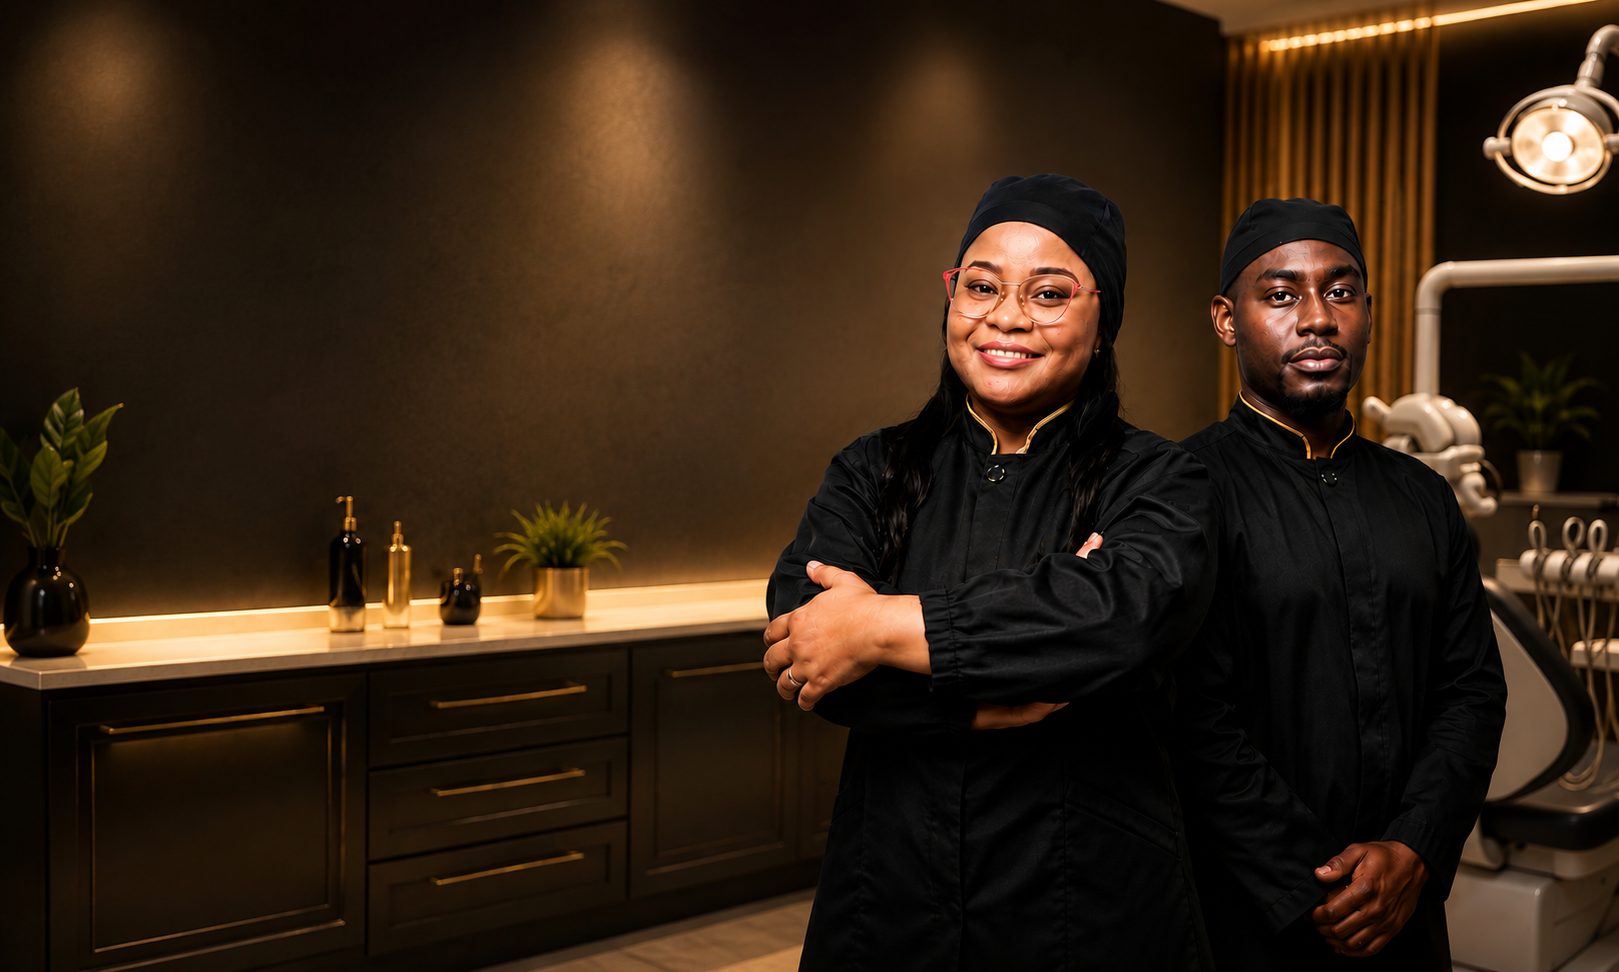
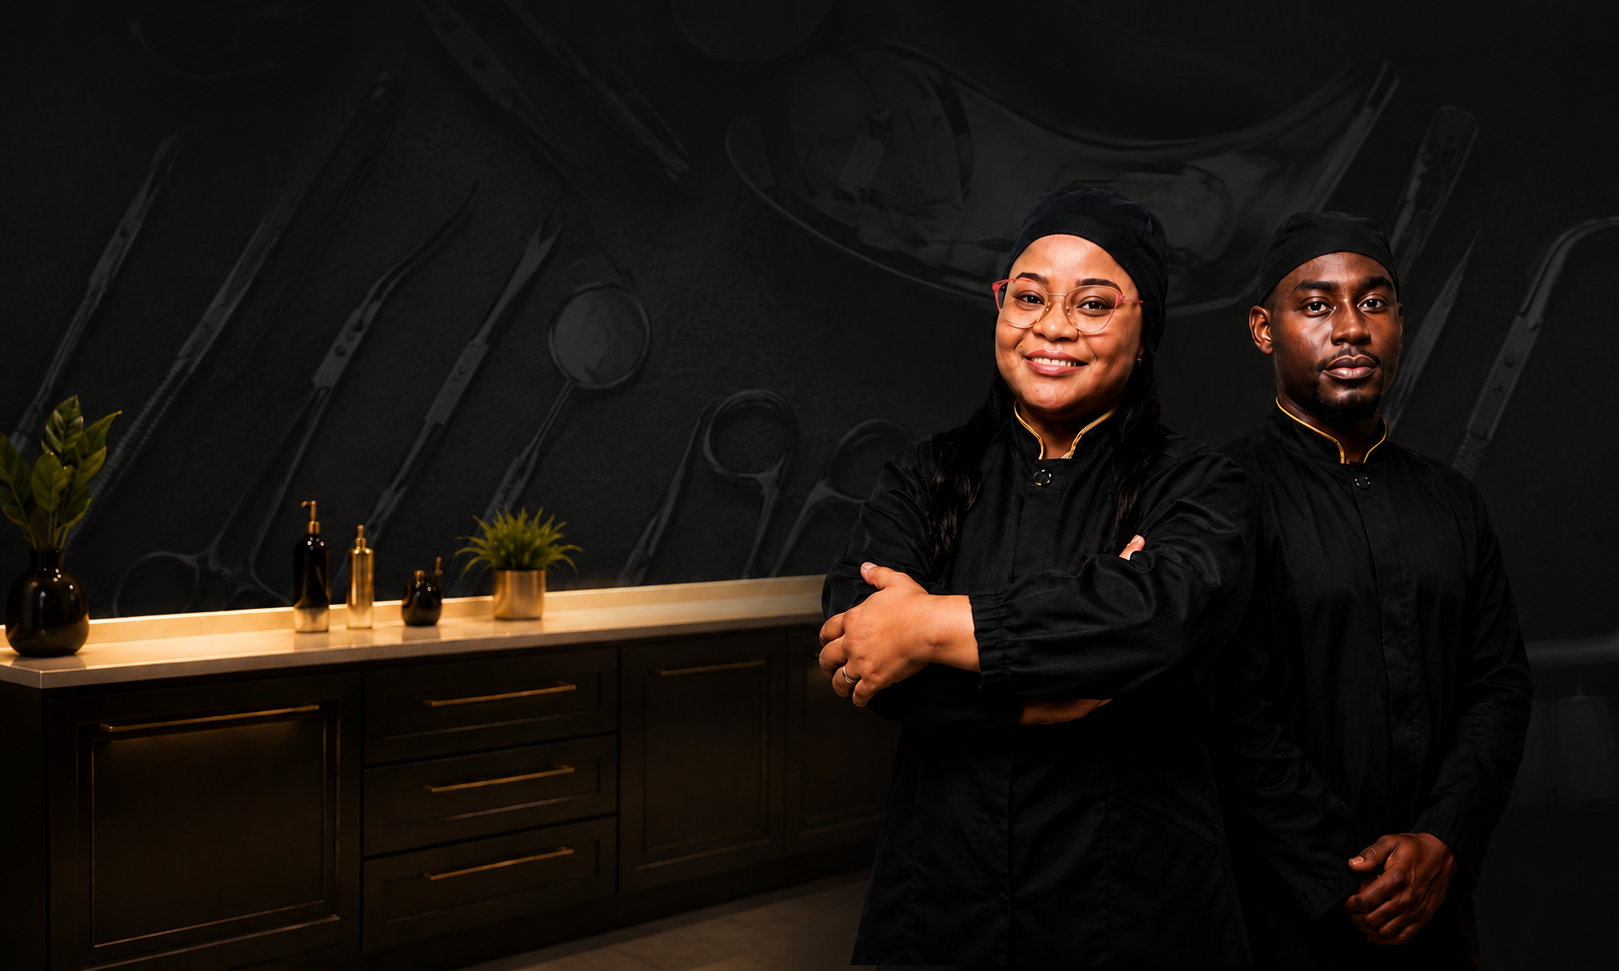
feat: update image assets and adjust button styles for consistency

diff --git a/src/components/site/sections/FinalCTA.tsx b/src/components/site/sections/FinalCTA.tsx
@@ -16,8 +16,8 @@ export function FinalCTA() {
         </h2>
         <p className="mt-6 text-lg text-muted-foreground">Uma equipa premium à sua espera em Luanda. Marque agora e descubra a diferença.</p>
         <div className="mt-10 flex flex-wrap justify-center gap-3">
-          <a href="#contacto" className="inline-flex items-center gap-2 rounded-full bg-primary px-8 py-4 text-sm font-semibold text-primary-foreground shadow-[var(--shadow-gold)] hover:brightness-110 transition">Agendar Consulta <ArrowRight size={16} /></a>
-          <a href={WA} target="_blank" rel="noopener noreferrer" className="inline-flex items-center gap-2 rounded-full border border-white/20 bg-white/5 px-8 py-4 text-sm font-medium text-white hover:bg-white/10 transition"><MessageCircle size={16} /> WhatsApp</a>
+          <a href="#contacto" className="inline-flex items-center gap-2 rounded-md bg-primary px-8 py-4 text-sm font-semibold text-primary-foreground shadow-[var(--shadow-gold)] hover:brightness-110 transition">Agendar Consulta <ArrowRight size={16} /></a>
+          <a href={WA} target="_blank" rel="noopener noreferrer" className="inline-flex items-center gap-2 rounded-md border border-white/20 bg-white/5 px-8 py-4 text-sm font-medium text-white hover:bg-white/10 transition"><MessageCircle size={16} /> WhatsApp</a>
         </div>
       </div>
     </section>

diff --git a/src/components/site/sections/Hero.tsx b/src/components/site/sections/Hero.tsx
@@ -5,7 +5,7 @@ import {
   ChevronDown,
 } from "lucide-react";
 
-import teamHero from "@/assets/hero3.png";
+import teamHero from "@/assets/hero4.png";
 import { WA } from "../primitives";
 
 export function Hero() {
@@ -129,9 +129,11 @@ export function Hero() {
               text-5xl
               leading-[0.98]
               tracking-[-0.025em]
+              mt-25
               text-white
               sm:text-6xl
               md:text-7xl
+              md:mt-0
               lg:text-[76px]
             "
           >
@@ -211,7 +213,7 @@ export function Hero() {
                 inline-flex
                 items-center
                 gap-2
-                rounded-full
+                rounded-md
                 bg-primary
                 px-7
                 py-3.5
@@ -242,7 +244,7 @@ export function Hero() {
                 className="
                   absolute
                   -inset-1
-                  rounded-full
+                  rounded-md
                   bg-gold/20
                   blur-xl
                   opacity-0
@@ -261,7 +263,7 @@ export function Hero() {
                 inline-flex
                 items-center
                 gap-2
-                rounded-full
+                rounded-md
                 border
                 border-white/25
                 bg-white/[0.06]

diff --git a/src/components/site/ContactForm.tsx b/src/components/site/ContactForm.tsx
@@ -345,7 +345,7 @@ export function ContactForm() {
       <button
         type="submit"
         disabled={isSubmitting}
-        className="group relative inline-flex w-full items-center justify-center gap-2 rounded-full bg-primary px-6 py-4 text-sm font-semibold text-primary-foreground shadow-[var(--shadow-gold)] transition hover:brightness-110 disabled:cursor-not-allowed disabled:opacity-70"
+        className="group relative inline-flex w-full items-center justify-center gap-2 rounded-md bg-primary px-6 py-4 text-sm font-semibold text-primary-foreground shadow-[var(--shadow-gold)] transition hover:brightness-110 disabled:cursor-not-allowed disabled:opacity-70"
       >
         {isSubmitting ? (
           <Loader2

diff --git a/src/components/site/sections/FloatingWA.tsx b/src/components/site/sections/FloatingWA.tsx
@@ -8,7 +8,7 @@ export function FloatingWA() {
       target="_blank"
       rel="noopener noreferrer"
       aria-label="Falar no WhatsApp"
-      className="fixed bottom-5 right-5 z-40 inline-flex items-center gap-2 rounded-full bg-primary px-5 py-3.5 text-sm font-semibold text-primary-foreground shadow-[var(--shadow-gold)] hover:brightness-110 transition"
+      className="fixed bottom-5 right-5 z-40 inline-flex items-center gap-2 rounded-md bg-primary px-5 py-3.5 text-sm font-semibold text-primary-foreground shadow-[var(--shadow-gold)] hover:brightness-110 transition"
     >
       <MessageCircle size={18} /> <span className="hidden sm:inline">WhatsApp</span>
     </a>

diff --git a/src/components/site/sections/Team.tsx b/src/components/site/sections/Team.tsx
@@ -1,6 +1,6 @@
 import { motion } from "framer-motion";
 import teamImg from "@/assets/team.png";
-import teamImg2 from "@/assets/hero3.png";
+import teamImg2 from "@/assets/hero4.png";
 import { SectionTitle, fadeUp } from "../primitives";
 
 export function Team() {
